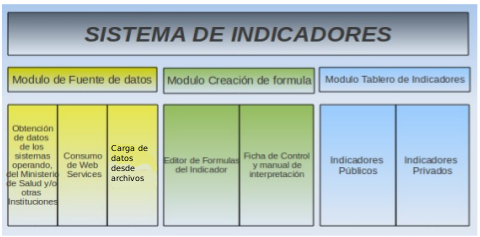
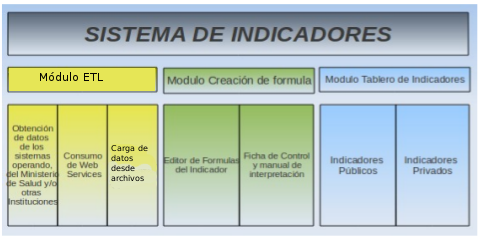
Actualización de documentación y mapa de regiones

Changed region(s): [[0.0, 0.2658, 0.3438, 0.384]]

diff --git a/src/MINSAL/IndicadoresBundle/DataFixtures/ORM/LoadSignificadoCampoData.php b/src/MINSAL/IndicadoresBundle/DataFixtures/ORM/LoadSignificadoCampoData.php
@@ -14,29 +14,29 @@ class LoadSignificadoCampoData extends AbstractFixture implements OrderedFixture
     {
         $datos = array();
         $datos[1]['campos'] = array('Codigo'=>'genero','Descripcion'=>'Género');
-        $datos[2]['campos'] = array('Codigo'=>'id_genero','Descripcion'=>'Identificador género');
-        $datos[3]['campos'] = array('Codigo'=>'edad','Descripcion'=>'Edad');
-        $datos[4]['campos'] = array('Codigo'=>'establecimiento','Descripcion'=>'Establecimiento');
-        $datos[5]['campos'] = array('Codigo'=>'id_establecimiento','Descripcion'=>'Identificador establecimiento');
-        $datos[6]['campos'] = array('Codigo'=>'municipio','Descripcion'=>'Municipio');
-        $datos[7]['campos'] = array('Codigo'=>'id_municipio','Descripcion'=>'Identificador municipio');
-        $datos[8]['campos'] = array('Codigo'=>'area','Descripcion'=>'Área');
-        $datos[9]['campos'] = array('Codigo'=>'id_area','Descripcion'=>'Identificador Área');
-        $datos[10]['campos'] = array('Codigo'=>'calculo','Descripcion'=>'Campo para cálculos');
+        $datos[2]['campos'] = array('Codigo'=>'edad','Descripcion'=>'Edad');
+        $datos[3]['campos'] = array('Codigo'=>'establecimiento','Descripcion'=>'Establecimiento');
+        $datos[4]['campos'] = array('Codigo'=>'municipio','Descripcion'=>'Municipio');
+        $datos[5]['campos'] = array('Codigo'=>'area','Descripcion'=>'Área');
+        $datos[6]['campos'] = array('Codigo'=>'calculo','Descripcion'=>'Campo para cálculos');
+        $datos[7]['campos'] = array('Codigo'=>'departamento','Descripcion'=>'Departamento');
+        $datos[8]['campos'] = array('Codigo'=>'region','Descripcion'=>'Región');
+        $datos[9]['campos'] = array('Codigo'=>'mes','Descripcion'=>'Mes');
+        $datos[10]['campos'] = array('Codigo'=>'anio','Descripcion'=>'Año');
+        $datos[11]['campos'] = array('Codigo'=>'sibasi','Descripcion'=>'Sibasi');
         
-        $datos[11]['campos'] = array('Codigo'=>'departamento','Descripcion'=>'Departamento');
-        $datos[12]['campos'] = array('Codigo'=>'id_departamento','Descripcion'=>'Identificador departamento');
-        $datos[13]['campos'] = array('Codigo'=>'region','Descripcion'=>'Región');
-        $datos[14]['campos'] = array('Codigo'=>'id_region','Descripcion'=>'Identificador región');
-        $datos[15]['campos'] = array('Codigo'=>'mes','Descripcion'=>'Mes');
-        $datos[16]['campos'] = array('Codigo'=>'id_mes','Descripcion'=>'Identificador mes');
-        $datos[17]['campos'] = array('Codigo'=>'anio','Descripcion'=>'Año');
+        $datos[12]['campos'] = array('Codigo'=>'id_genero','Descripcion'=>'Identificador género');                
+        $datos[13]['campos'] = array('Codigo'=>'id_establecimiento','Descripcion'=>'Identificador establecimiento');        
+        $datos[14]['campos'] = array('Codigo'=>'id_municipio','Descripcion'=>'Identificador municipio');        
+        $datos[15]['campos'] = array('Codigo'=>'id_area','Descripcion'=>'Identificador Área');
+        $datos[16]['campos'] = array('Codigo'=>'id_departamento','Descripcion'=>'Identificador departamento');        
+        $datos[17]['campos'] = array('Codigo'=>'id_region','Descripcion'=>'Identificador región');        
+        $datos[18]['campos'] = array('Codigo'=>'id_mes','Descripcion'=>'Identificador mes');                
         
-        
-        $datos[18]['campos'] = array('Codigo'=>'pk','Descripcion'=>'Clave primaria', 'UsoEnCatalogo'=>true);
-        $datos[19]['campos'] = array('Codigo'=>'fk','Descripcion'=>'Clave foránea', 'UsoEnCatalogo'=>true);
-        $datos[20]['campos'] = array('Codigo'=>'descripcion','Descripcion'=>'Descripción', 'UsoEnCatalogo'=>true);
-        $datos[21]['campos'] = array('Codigo'=>'otro','Descripcion'=>'Otro significado', 'UsoEnCatalogo'=>true);
+        $datos[19]['campos'] = array('Codigo'=>'pk','Descripcion'=>'Clave primaria', 'UsoEnCatalogo'=>true);
+        $datos[20]['campos'] = array('Codigo'=>'fk','Descripcion'=>'Clave foránea', 'UsoEnCatalogo'=>true);
+        $datos[22]['campos'] = array('Codigo'=>'descripcion','Descripcion'=>'Descripción', 'UsoEnCatalogo'=>true);
+        $datos[22]['campos'] = array('Codigo'=>'otro','Descripcion'=>'Otro significado', 'UsoEnCatalogo'=>true);
         
         $master = new LoadMaster();
         $master->save($datos, $manager, $this);

diff --git a/src/MINSAL/IndicadoresBundle/Controller/IndicadorController.php b/src/MINSAL/IndicadoresBundle/Controller/IndicadorController.php
@@ -48,7 +48,8 @@ class IndicadorController extends Controller {
         else
             $resp['resultado'] = 'error';
         $response = new Response(json_encode($resp));
-        //$response->setMaxAge($this->container->getParameter('indicador_cache_consulta'));
+        if ($this->get('kernel')->getEnvironment() != 'dev')
+            $response->setMaxAge($this->container->getParameter('indicador_cache_consulta'));
         return $response;
     }
 
@@ -81,7 +82,8 @@ class IndicadorController extends Controller {
         $fichaRepository->crearTablaIndicador($fichaTec, $this->container->getParameter('indicador_duracion_tabla_tmp'));
         $resp['datos'] = $fichaRepository->calcularIndicador($fichaTec, $dimension, $filtros);
         $response = new Response(json_encode($resp));
-        $response->setMaxAge($this->container->getParameter('indicador_cache_consulta'));
+        if ($this->get('kernel')->getEnvironment() != 'dev')
+            $response->setMaxAge($this->container->getParameter('indicador_cache_consulta'));
         return $response;
     }
 
@@ -120,7 +122,8 @@ class IndicadorController extends Controller {
         }
         $resp['datos'] = $datos_ordenados;
         $response = new Response(json_encode($resp));
-        $response->setMaxAge($this->container->getParameter('indicador_cache_consulta'));
+        if ($this->get('kernel')->getEnvironment() != 'dev')
+            $response->setMaxAge($this->container->getParameter('indicador_cache_consulta'));
         return $response;
     }
 
@@ -162,7 +165,8 @@ class IndicadorController extends Controller {
         }
         $resp['datos'] = $datos_filtrados;
         $response = new Response(json_encode($resp));
-        $response->setMaxAge($this->container->getParameter('indicador_cache_consulta'));
+        if ($this->get('kernel')->getEnvironment() != 'dev')
+            $response->setMaxAge($this->container->getParameter('indicador_cache_consulta'));
         return $response;
     }
      /**
@@ -194,7 +198,8 @@ class IndicadorController extends Controller {
             $mapa = json_encode (array('features'=>''));
         $headers = array('Content-Type' => 'application/json');
         $response = new Response($mapa, 200, $headers);        
-        $response->setMaxAge($this->container->getParameter('indicador_cache_consulta'));
+        if ($this->get('kernel')->getEnvironment() != 'dev')
+            $response->setMaxAge($this->container->getParameter('indicador_cache_consulta'));
         return $response;
     } 
     

diff --git a/app/Resources/doc/manual-de-usuario/Contents/etl.md b/app/Resources/doc/manual-de-usuario/Contents/etl.md
@@ -5,7 +5,7 @@ Contamos con las siguientes opciones en el menú principal:
 ![Menú orígenes de datos](menu_origenes_datos.png)
 
 ## Conexión a bases de datos
-Cuando los datos provienen de una base ya existente, se debe configurar antes la conexión a esa base de datos. Los motores soportados son: PostgreSQL, MySQL, SQL Server y Oracle.
+Cuando los datos provienen de una base de datos ya existente, se debe configurar antes la conexión a ésta. Los motores soportados son: PostgreSQL, MySQL, SQL Server y Oracle.
 
 ![Formulario de conexión de base de datos](conexion.png)
 
@@ -16,21 +16,25 @@ Para la creación de un origen de datos tenemos tres secciones: Datos generales 
 
 ![Creación de origen de datos](origen_dato_crear.png)
 
-De las últimas dos secciones debemos seleccionar la que utilizaremos según el caso. Para cargar datos desde una sentencia SQL debemos seleccionar la conexión a la base de datos y especificar la sentencia SQL para extraer los datos, opcionalmente podemos probar la sentencia antes de guardarla con el botón **Probar Sentencia SQL** la cual mostrará un mensaje con el resultado de la prueba y un listado de datos de muestra en el caso que ejecución de la sentencia haya sido exitosa.
+En la sección de datos generales debemos especificar el nombre del origen de datos, opcionalmente una descripción y si el origen de datos lo utilizaremos para cargar datos de tablas catálogos.
+
+De las últimas dos secciones debemos seleccionar la que utilizaremos según el caso. Para cargar datos desde una sentencia SQL debemos seleccionar la conexión a la base de datos y especificar la sentencia SQL para extraer los datos, es recomendable probar la sentencia antes de guardarla con el botón **Probar Sentencia SQL** la cual mostrará un mensaje con el resultado de la prueba y un listado de datos de muestra en el caso que ejecución de la sentencia haya sido exitosa.
 ![Creación de origen de datos a partir de sentencia SQL](origen_dato_sql.png)
 
 Y para cargar datos desde un archivo, debemos especificar la ruta del archivo, el cual puede ser una hoja electrónica (Excel hasta versión 2010 y OpenOffice/LibreOffice hasta versión 3.5 son soportados) o desde un archivo de texto con formato de valores separados por comas (CSV).
 
 #### Configuración de un origen de datos
-Al especificar las opciones necesarias en el formulario de origen de datos y dar clic en guardar y editar se cargará una nueva sección en la parte inferior del formulario, por medio de la cual debemos configurar los datos obtenidos.
+Al especificar las opciones necesarias en el formulario de origen de datos y dar clic en **Guardar y editar** se cargará una nueva sección en la parte inferior del formulario, por medio de la cual debemos configurar los datos obtenidos.
 
 ![Configuración del origen de datos](origen_dato_configurar.png)
 
-Es de suma importancia realizar esta configuración correctamente. Debemos especificar para cada campo su tipo y significado, el significado del campo determinará qué es lo que se almacena en el campo y por medio de este se permitirá luego relacionar campos de diferentes orígenes de datos, solo debe haber un campo para cada tipo de datos por origen de datos. Un campo con especial importancia es el **Campo para cálculos** el cual identificará el campo que se utilizará para realizar los cálculos. Esto aplica cuando se utilice el origen de datos en una fórmula matemática para calcular algún indicador.  Si algún campo contiene llaves foráneas se deberá seleccionar los tipos que comienzan con **Identificador** indicando que este dato tendrá asociado una tabla catálogo que ya debe estar cargada o que será cargada posteriormente en la base de datos. Por ejemplo para el caso de Departamento si está cargando el nombre del departamento el significado será *Departamento* y su valor esta ya listado en la tabla catalogo ctl_departamento. 
-Por otro lado, si en lugar del nombre tiene la llave foránea deberá colocar como significado *Identificador departamento* y su valor debe coincidir con una llave id_departamento en la tabla catalogo ctl_departamento.  Recuerde que necesitará una tabla departamento, la asociación de la tabla se realiza cuando se crea un significado de campos
+Es de suma importancia realizar esta configuración correctamente. Debemos especificar para cada campo su tipo y significado. 
+El significado del campo determinará qué es lo que almacenará y por medio de éste se permitirá luego relacionar campos de diferentes orígenes de datos, un tipo de campo solo se puede aparecer una vez en cada origen de datos. Un campo con especial importancia es el **Campo para cálculos** el cual identificará el campo que se utilizará para realizar los cálculos dentro de la fórmula del indicador. Si algún campo contiene llaves foráneas se deberá seleccionar los tipos que comienzan con **Identificador** indicando que este dato tendrá asociado una tabla catálogo que ya debe estar cargada o que será cargada posteriormente en la base de datos. Por ejemplo para el caso de Departamento si está cargando el nombre del departamento el significado será *Departamento*. 
+Por otro lado, si en lugar del nombre tiene la llave foránea deberá colocar como significado *Identificador departamento* y su valor debe coincidir con una llave id_departamento en la tabla catalogo ctl_departamento.  Recuerde que necesitará una tabla de catálogo de departamento, la asociación de la tabla se realiza cuando se crea un significado de campos.
+
 ![Origen de datos configurado](images/origen_dato_configurar2.png)
 
 ### Carga de tablas catálogos 
 El formulario de origen de datos además permite crear tablas catálogos (cuyas llaves se utilizarán como llaves foráneas en los orígenes de datos normales). Alternativamente las tablas catálogo pueden ser gestionadas con algún programa especializado para el manejo de bases de datos, esto es así puesto que cada implementación del Sistema de Indicadores puede tener diferentes catálogos. 
-Cada catalogo permite asociar y analizar la información que se suba al sistema de distintas formas. Así por ejemplo si contamos con un catálogo de departamentos  (tabla ctl_depatamento) y dentro de este  catálogo están las columnas población, región  será posible filtrar y desplegar información para cada registro  sobre departamentos sus poblaciones y  la región a la que pertenecen. 
+Cada catálogo permite asociar y analizar la información que se suba al sistema de distintas formas. Así por ejemplo si contamos con un catálogo de departamentos  (tabla ctl_depatamento) y dentro de este  catálogo están las columnas población, región  será posible filtrar y desplegar información para cada registro  sobre departamentos sus poblaciones y  la región a la que pertenecen. 
 Entre más catálogos se utilicen, habrán mas posibilidades para analizar y presentar los datos. Es responsabilidad del administrador en cada implementación garantizar la gestión de las tablas catálogos.

diff --git a/app/Resources/doc/analisis-y-requerimientos/Contents/antecedentes.md b/app/Resources/doc/analisis-y-requerimientos/Contents/antecedentes.md
@@ -1,8 +1,6 @@
 # Antecedentes
 ## Problemática
-En la actualidad hay muchos sistemas (transaccionales) que registran los datos de los servicios de salud y de los recursos utilizados para la entrega de estos servicios, pero, no existen herramientas que pueda
-convertir todos estos datos en información para la toma de decisiones, por lo que es necesario crea una aplicación que interactúe con los diferentes sistemas de tal forma que combine datos y genere indicadores
-que sean de utilidad para la toma de decisiones y agilice la gestión de la Institución e informen a la población de la situación de la salud.
+En la actualidad hay muchos sistemas (transaccionales) que registran los datos de los servicios de salud y de los recursos utilizados para la entrega de estos servicios, pero, no existen herramientas que pueda convertir todos estos datos en información para la toma de decisiones, por lo que es necesario crea una aplicación que interactúe con los diferentes sistemas de tal forma que combine datos y genere indicadores que sean de utilidad para la toma de decisiones y agilice la gestión de la Institución e informen a la población de la situación de la salud.
 
 La siguiente figura representa la situación actual de los sistema en la cual tenemos dos actores principales, por un lado los sistemas y las bases de datos y por otro los usuario que registran datos de las
 actividades y recursos utilizados en los servicios de salud, todo esto utilizando en la gran mayoría la red de Internet.
@@ -12,9 +10,9 @@ actividades y recursos utilizados en los servicios de salud, todo esto utilizand
 ## Componentes
 El sistema contará con tres módulos:
 
-* Módulo de conexión a los diferentes orígenes de datos: Bases de datos, hojas de cálculo(Excel y OpenOffice/LibreOffice) y archivos de texto en formato CSV. En este módulo se registrarán los parámetros necesario para poder realizar la conexión y extracción de los datos necesarios que se utilizarán para el cálculo del indicador respectivo. En esta parte se trabajará sobre los datos obtenidos a patir de las informaciones cuantificables válidas, relevantes y oportunas producidas por los varios sistemas nacionales y estatales de información de salud. La información disponible y accesible, permitirá una mejor coordinación y operación de la salud desde el MINSAL hacia otros organismos que requieran dicha información.
+* Módulo de extración, transformación y carga de datos (ETL por sus siglas en inglés): Permitirá la conexión a los diferentes orígenes de datos: Bases de datos, hojas de cálculo(Excel y OpenOffice/LibreOffice) y archivos de texto en formato CSV. En este módulo se registrarán los parámetros necesario para poder realizar la conexión y extracción de los datos necesarios que se utilizarán para el cálculo del indicador respectivo. En esta parte se trabajará sobre los datos obtenidos a patir de las informaciones cuantificables válidas, relevantes y oportunas producidas por los varios sistemas nacionales y estatales de información de salud. La información disponible y accesible, permitirá una mejor coordinación y operación de la salud desde el MINSAL hacia otros organismos que requieran dicha información.
 
-* Módulo de Fórmula del indicador, en este módulo se establecerán las variables y fórmula para el cálculo del indicador, también se registrará una ficha de control en el cual se detallará la información necesaria para la interpretación del indicador.
+* Módulo de Ficha Técnica del indicador, en este módulo se establecerán las variables y fórmula para el cálculo del indicador, también se registrará la información necesaria para la interpretación del indicador.
 
 * Módulo de tablero de Indicadores, en este módulo se mostrarán todas las alternativas de indicadores disponibles, presentación, y los diversos parámetros para poderla personalizar. Propone proveer información y datos presentando éstos de una manera accesible y objetiva, utilizando visualizaciones gráficas.
 

diff --git a/app/Resources/doc/manual-de-usuario/Contents/introduccion.md b/app/Resources/doc/manual-de-usuario/Contents/introduccion.md
@@ -1,5 +1,10 @@
-El presente documento es un borrador que describe el uso del sistema e-TAB.
+El Ministerio de Salud de El Salvador (MlNSAL), a través de la Dirección de 
+Tecnologías de Información y Comunicaciones (DTIC), con el apoyo del Proyecto 
+Salud Mesoamérica 2015 (SM2015), pondrá en marcha el desarrollo del proyecto 
+Tablero Electrónico de Seguimiento y Control en Linea (eTAB), también conocido
+como Information Dashboard, cuyo objetivo es facilitar y fortalecer la 
+vigilancia de la salud, agilizando la toma de decisiones en todos los niveles, 
+por medio de los cuales se logran alcanzar las metas propuestas por el sector salud.
 
-El e-TAB es una herramienta que propone proveer información y datos presentando éstos de una manera accesible y objetiva, utilizando visualizaciones gráficas de diferentes tipos (gráficas. mapas. tablas interactivas) que buscará distribuir y proveer información de diferentes programas de forma unificada. Inicialmente, basados
-en necesidades existentes. El e-TAB será alimentado
-por los datos obtenidos a partir de la información administrativa producida por el sistema estatal y nacional de información de salud.
+El SIIG/eTAB es una herramienta que propone proveer información y datos presentando éstos de una manera accesible y objetiva, utilizando visualizaciones gráficas de diferentes tipos (gráficas. mapas. tablas interactivas) que buscará distribuir y proveer información de diferentes programas de forma unificada. Inicialmente, basados
+en necesidades existentes. El e-TAB será alimentado por los datos obtenidos a partir de la información administrativa producida por el sistema estatal y nacional de información de salud.

diff --git a/app/Resources/doc/analisis-y-requerimientos/Contents/vision.md b/app/Resources/doc/analisis-y-requerimientos/Contents/vision.md
@@ -3,16 +3,18 @@
 
 El sistema integrado de Información Gerencial ofrecerá análisis gráfico de datos 
 recogidos desde fuentes remotas en base a indicadores predefinidos. 
-La estructura de la aplicación permitira crecer y a agregar nuevos indicadores y 
+La estructura de la aplicación permitirá crecer y a agregar nuevos indicadores y 
 nuevas fuentes de datos según se requiera.
 
-El sistema cuenta con dos componentes:
+El sistema cuenta con tres componentes:
 
-- Un módulo de recolección de datos, transformación y carga de datos
+- Un módulo de recolección de datos, transformación y carga de datos (ETL por sus siglas en inglés)
 
-- Un módulo de reporte y análisis de datos 
+- Un módulo de creación de ficha técnica la cuál describe un indicador
 
-Una primera versión del sistema sistema estará disponible a finales de Diciembre 2012 usando datos de El Salvador. Una vez se reciba una evaluación satisfactoria de esta primera version, se implementará en el resto de sistemas de salud del programa Mesoamerica 2015 
+- Un tablero para análisis de datos
+
+Una primera versión del sistema sistema estará disponible a finales de Diciembre 2012 usando datos de El Salvador. Una vez se reciba una evaluación satisfactoria de esta primera versión, se implementará en el resto de sistemas de salud del programa Mesoamerica 2015 
 
 ## Alcances
 

diff --git a/app/Resources/doc/analisis-y-requerimientos/Contents/descripcion.md b/app/Resources/doc/analisis-y-requerimientos/Contents/descripcion.md
@@ -1,12 +1,6 @@
 #Descripción del eTAB
 
-En este ámbito, el e-TAB es una herramienta que propone proveer información y 
-datos presentando estos de una manera accesible y objetiva, utilizando 
-visualizaciones gráficas de diferentes tipos (gráficas, mapas, tablas interactivas) 
-que buscará distribuir y proveer información de diferentes programas de forma 
-unificada. Inicialmente, basados en necesidades existentes, es necesario un 
-análisis para mejor entendimiento de la ejecución del programa dentro de la 
-iniciativa. Por lo tanto, el eTAB será alimentado por los datos obtenidos a 
+El e-TAB es una herramienta que propone proveer información y datos presentando estos de una manera accesible y objetiva, utilizando visualizaciones gráficas de diferentes tipos (gráficas, mapas, tablas interactivas) que buscará distribuir y proveer información de diferentes programas de forma unificada. Inicialmente, basados en necesidades existentes, es necesario un análisis para mejor entendimiento de la ejecución del programa dentro de la iniciativa. Por lo tanto, el eTAB será alimentado por los datos obtenidos a 
 partir de la información administraTiva producida por el sistema estatal y 
 nacional de información de salud.
 

diff --git a/app/Resources/doc/analisis-y-requerimientos/Contents/introduccion.md b/app/Resources/doc/analisis-y-requerimientos/Contents/introduccion.md
@@ -6,8 +6,7 @@ como Information Dashboard, cuyo objetivo es facilitar y fortalecer la
 vigilancia de la salud, agilizando la toma de decisiones en todos los niveles, 
 por medio de los cuales se logran alcanzar las metas propuestas por el sector salud.
 
-EI Tablero en línea eTAB, también conocido localmente como Sistema Integral de 
-Indicadores de Salud (SIIS), será construido para monitorear en tiempo casi real 
+EI Tablero en línea eTAB, será construido para monitorear en tiempo casi real 
 el progreso de los indicadores disponibles e integrará de manera sistematizada 
 los datos e información generada por las diferentes instancias encargadas de la 
 atención a la salud de la población. Este sistema de seguimiento y control, 
